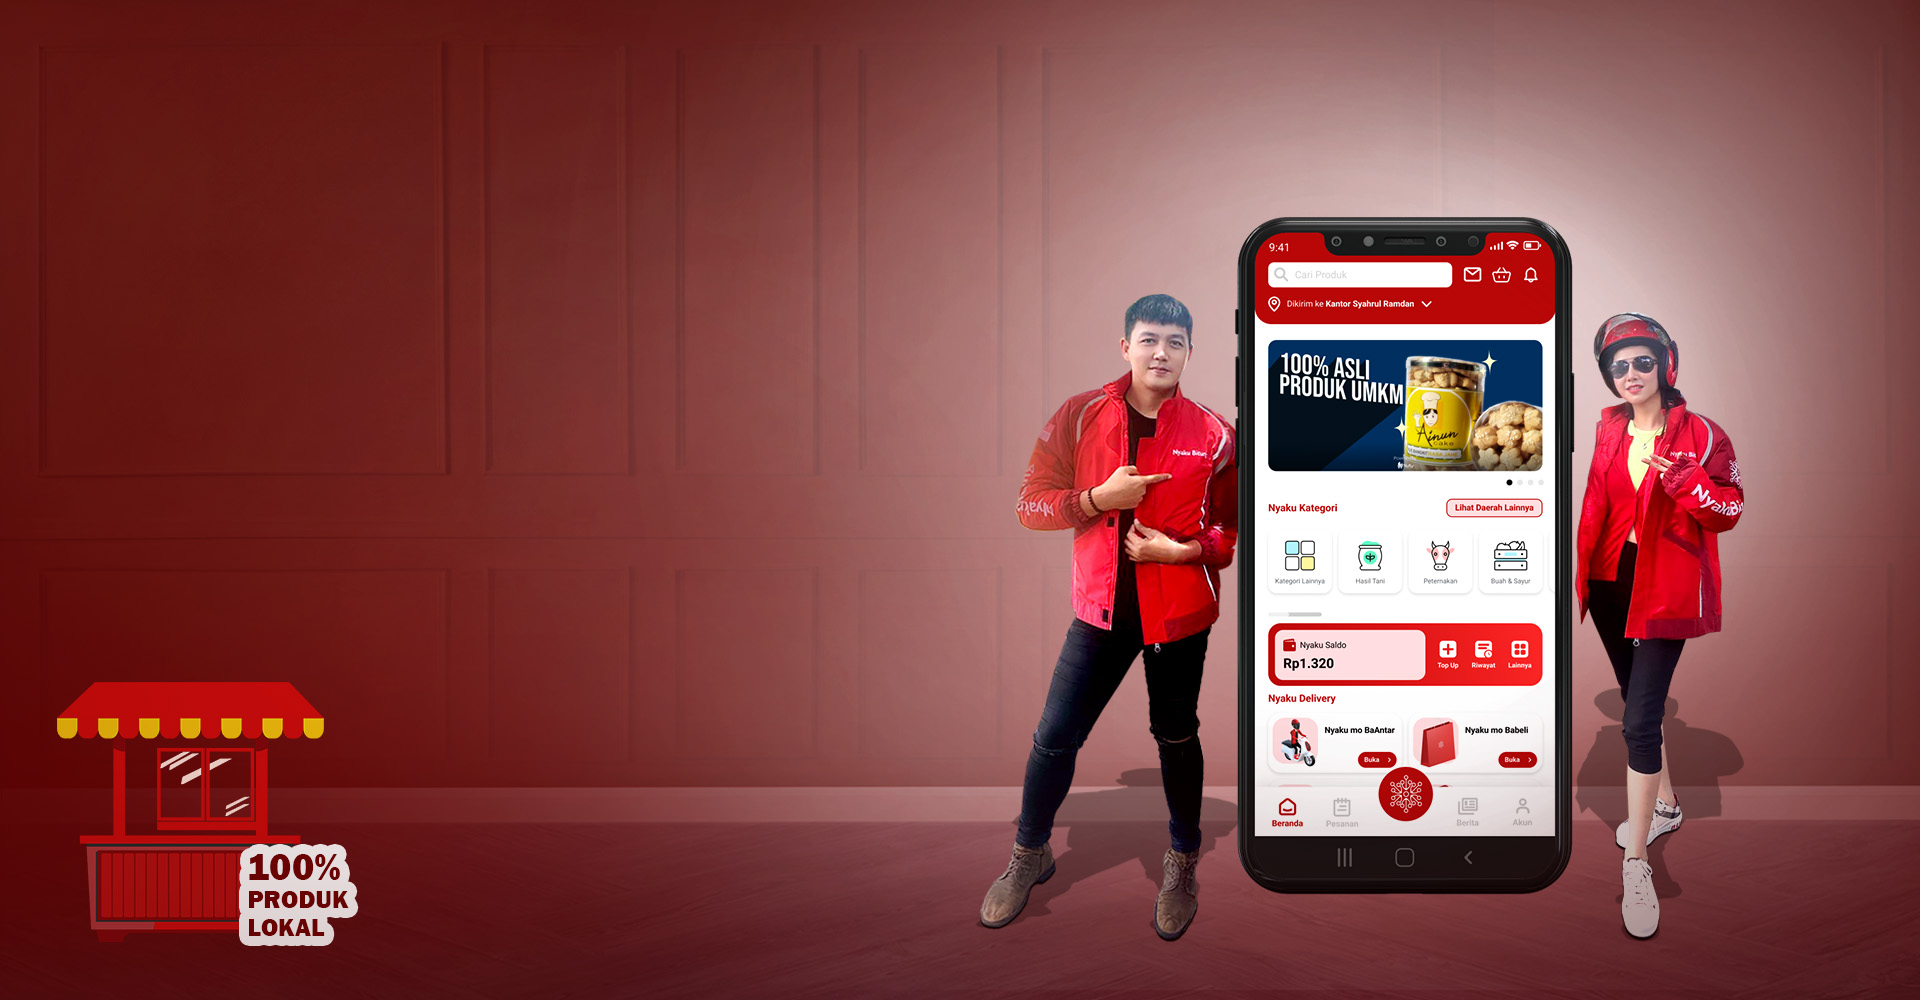
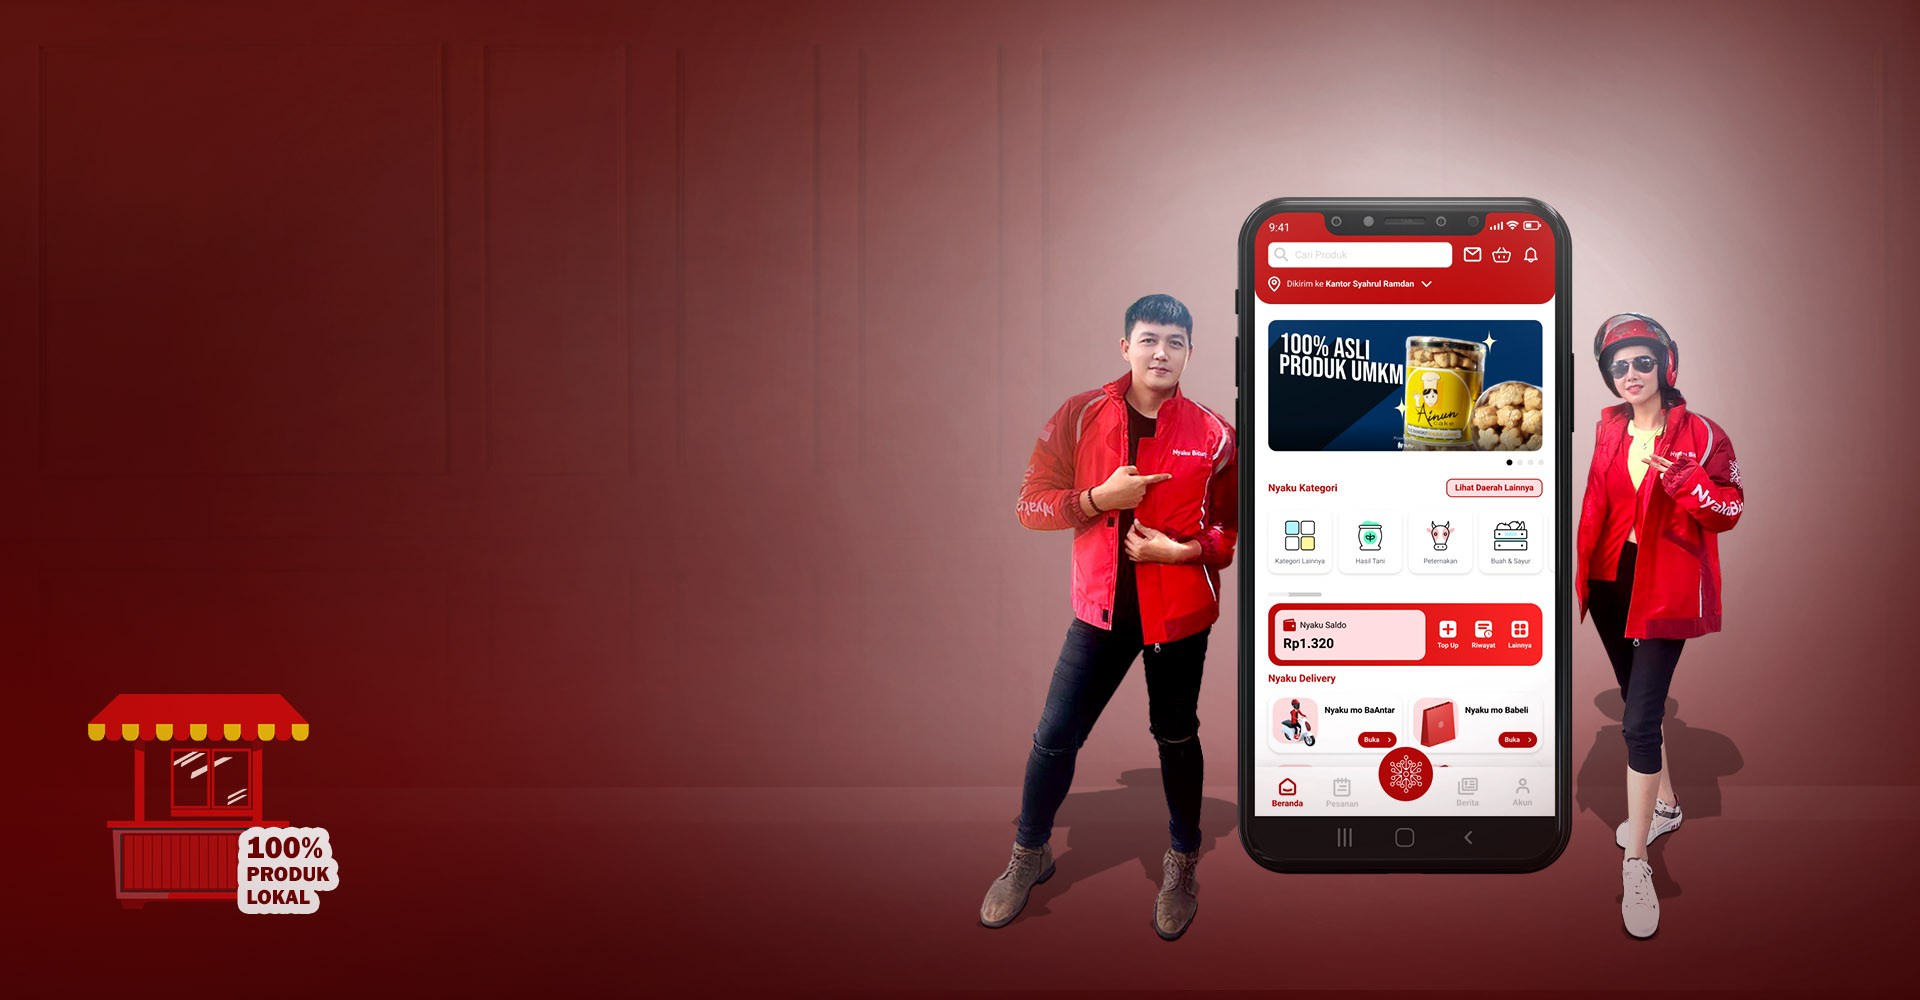
Revisi lagi lagi

diff --git a/index.html b/index.html
@@ -490,7 +490,7 @@ height="0" width="0" style="display:none;visibility:hidden"></iframe></noscript>
               <div class="col-xl-5 col-lg-6">
                 <h6>Tentang</h6>
                 <h2 style="font-family: var(--font-dasar); ; font-size: 40px;">Apa itu <span style="color: var(--warna-dasar);"> Nyaku Bitung</span></h2>
-                <p class="big">Nyaku Bitung adalah Super Apps yang menggabungkan <em>Marketplace</em> dan <em>Delivery Order</em>, mempunyai tujuan menjadi wadah jualan produk kearifan lokal Kota Bitung serta untuk meningkatkan penjualan para pelaku UMKM Kota Bitung.</p>
+                <p class="big">Nyaku Bitung adalah Super Apps yang menggabungkan <em>Marketplace</em> dan <em>Delivery Order</em>, mempunyai tujuan menjadi wadah jualan produk kearifan lokal serta untuk membantu pertumbuhan ekonomi UMKM di daerah Kota Bitung.</p>
               </div>
             </div>
           </div>
@@ -507,6 +507,7 @@ height="0" width="0" style="display:none;visibility:hidden"></iframe></noscript>
         <div><img src="assets/img/banner/Slide_WEB Banner_PPOB.jpg" alt="Nyaku Bitung Banner" class="img-fluid"></div>
         <div><img src="assets/img/banner/Slide_WEB Banner_Reservasi Hotel.jpg" alt="Nyaku Bitung Banner" class="img-fluid"></div>
         <div><img src="assets/img/banner/Slide_WEB Banner_Wisata.jpg" alt="Nyaku Bitung Banner" class="img-fluid"></div>
+        <div><img src="assets/img/banner/Slide_WEB Banner_Selat lembeh.jpg" alt="Nyaku Bitung Banner" class="img-fluid"></div>
       </div>
     </div>
   </div>
@@ -519,7 +520,7 @@ height="0" width="0" style="display:none;visibility:hidden"></iframe></noscript>
               <div class="col-xl-5 col-lg-6">
                 <h6>Kenapa Harus Nyaku Bitung ?</h6>
                 <h2 style="font-family: var(--font-dasar); font-size: 40px;">Portofolio Produk Daerah</h2>
-                <p class="big">Nyaku Bitung merupakan E-Katalog produk kearifan lokal Kota Bitung yang merupakan portofolio produk daerah untuk sektor UMKM, komodistas, pariwisata sehingga memudahkan wisatawan mengenal produk-produk kearifan lokal Kota Bitung.</p>
+                <p class="big">Nyaku Bitung merupakan E-Katalog produk kearifan lokal yang merupakan portofolio produk daerah untuk sektor UMKM, Komoditas,  Pariwisata sehingga memudahkan wisatawan mengenal produk-produk kearifan lokal Kota Bitung.</p>
               </div>
               <div class="col-xl-6 col-lg-6">
                 <div class="text-center text-lg-left"><img src="assets/img/Ilustrasi/home-img.png" alt="Kenapa Harus Nyaku Bitung" width="500" height="406"/>
@@ -872,7 +873,7 @@ height="0" width="0" style="display:none;visibility:hidden"></iframe></noscript>
                         <div class="col-md-4">
                             <div class="box-footer1">
                                 <div class="footer-text">
-                                   Nyaku Bitung adalah Super Apps yang menggabungkan <em>Marketplace</em> dan <em>Delivery Order</em>, mempunyai tujuan menjadi wadah jualan produk kearifan lokal Kota Bitung serta untuk meningkatkan penjualan para pelaku UMKM Kota Bitung.
+                                  Nyaku Bitung adalah Super Apps yang menggabungkan <em>Marketplace</em> dan <em>Delivery Order</em>, mempunyai tujuan menjadi wadah jualan produk kearifan lokal serta untuk membantu pertumbuhan ekonomi UMKM di daerah Kota Bitung.
                                 </div>
                                 <div class="box-sosmed">
                                     <a href="https://www.facebook.com/Nyaku-Bitung-104920565719102" title="Facebook Nyaku" target="_blank"><i class="fab fa-facebook"></i></a>

diff --git a/html/mitra/mitra_driver/driver.html b/html/mitra/mitra_driver/driver.html
@@ -368,8 +368,8 @@ footer {
       </header>
 
       <!-- Hero -->
-        <section class="hero-bg" style="    background-image: url(../../../assets/img/banner/Slide\ Mitra\ Driver.jpg);
-    background-position: center;
+        <section class="hero-bg" style="    background-image: url(../../../assets/img/banner/Slide\ Mitra\ Driver1.jpg);
+    background-position: left;
     background-repeat: no-repeat;
     background-size: cover;
     height: 100vh;
@@ -571,7 +571,7 @@ footer {
                         <div class="col-md-4">
                             <div class="box-footer1">
                                 <div class="footer-text">
-                                   Nyaku Bitung adalah Super Apps yang menggabungkan <em>Marketplace</em> dan <em>Delivery Order</em>, mempunyai tujuan menjadi wadah jualan produk kearifan lokal Kota Bitung serta untuk meningkatkan penjualan para pelaku UMKM Kota Bitung.
+                                  Nyaku Bitung adalah Super Apps yang menggabungkan <em>Marketplace</em> dan <em>Delivery Order</em>, mempunyai tujuan menjadi wadah jualan produk kearifan lokal serta untuk membantu pertumbuhan ekonomi UMKM di daerah Kota Bitung.
                                 </div>
                                   <div class="box-sosmed">
                                     <a href="https://www.facebook.com/Nyaku-Bitung-104920565719102" title="Facebook Nyaku" target="_blank"><i class="fab fa-facebook"></i></a>

diff --git a/html/mitra/mitra_merchant/merchant.html b/html/mitra/mitra_merchant/merchant.html
@@ -349,8 +349,8 @@ footer {
       </header>
 
       <!-- Hero -->
-        <section class="hero-bg" style=" background-image: url(../../../assets/img/banner/Banner\ Mitra\ Merchant.jpg);
-    background-position: center;
+        <section class="hero-bg" style=" background-image: url(../../../assets/img/banner/Slide\ Mitra\ Driver.jpg);
+    background-position: left;
     background-repeat: no-repeat;
     background-size: cover;
     height: 100vh;
@@ -549,7 +549,7 @@ footer {
                         <div class="col-md-4">
                             <div class="box-footer1">
                                 <div class="footer-text">
-                                   Nyaku Bitung adalah Super Apps yang menggabungkan <em>Marketplace</em> dan <em>Delivery Order</em>, mempunyai tujuan menjadi wadah jualan produk kearifan lokal Kota Bitung serta untuk meningkatkan penjualan para pelaku UMKM Kota Bitung.
+                                  Nyaku Bitung adalah Super Apps yang menggabungkan <em>Marketplace</em> dan <em>Delivery Order</em>, mempunyai tujuan menjadi wadah jualan produk kearifan lokal serta untuk membantu pertumbuhan ekonomi UMKM di daerah Kota Bitung.
                                 </div>
                                  <div class="box-sosmed">
                                     <a href="https://www.facebook.com/Nyaku-Bitung-104920565719102" title="Facebook Nyaku" target="_blank"><i class="fab fa-facebook"></i></a>

diff --git a/html/blog/konten/Ekslusif tim nyaku bitung perpanjang waktu di bitung/konten.html b/html/blog/konten/Ekslusif tim nyaku bitung perpanjang waktu di bitung/konten.html
@@ -497,7 +497,7 @@ Maka kita torang jo semua akan bahagia sejahtera dengan menggunbakan aplikasi da
                         <div class="col-md-4">
                             <div class="box-footer1">
                                 <div class="footer-text">
-                                   Nyaku Bitung adalah Super Apps yang menggabungkan <em>Marketplace</em> dan <em>Delivery Order</em>, mempunyai tujuan menjadi wadah jualan produk kearifan lokal Kota Bitung serta untuk meningkatkan penjualan para pelaku UMKM Kota Bitung.
+                                  Nyaku Bitung adalah Super Apps yang menggabungkan <em>Marketplace</em> dan <em>Delivery Order</em>, mempunyai tujuan menjadi wadah jualan produk kearifan lokal serta untuk membantu pertumbuhan ekonomi UMKM di daerah Kota Bitung.
                                 </div>
                               <div class="box-sosmed">
                                     <a href="https://www.facebook.com/Nyaku-Bitung-104920565719102" title="Facebook Nyaku" target="_blank"><i class="fab fa-facebook"></i></a>

diff --git a/html/mitra/mitra_driver/syarat.html b/html/mitra/mitra_driver/syarat.html
@@ -480,7 +480,7 @@ footer {
                         <div class="col-md-4">
                             <div class="box-footer1">
                                 <div class="footer-text">
-                                   Nyaku Bitung adalah Super Apps yang menggabungkan <em>Marketplace</em> dan <em>Delivery Order</em>, mempunyai tujuan menjadi wadah jualan produk kearifan lokal Kota Bitung serta untuk meningkatkan penjualan para pelaku UMKM Kota Bitung.
+                                  Nyaku Bitung adalah Super Apps yang menggabungkan <em>Marketplace</em> dan <em>Delivery Order</em>, mempunyai tujuan menjadi wadah jualan produk kearifan lokal serta untuk membantu pertumbuhan ekonomi UMKM di daerah Kota Bitung.
                                 </div>
                                  <div class="box-sosmed">
                                     <a href="https://www.facebook.com/Nyaku-Bitung-104920565719102" title="Facebook Nyaku" target="_blank"><i class="fab fa-facebook"></i></a>

diff --git a/html/blog/konten_blog.html b/html/blog/konten_blog.html
@@ -1015,7 +1015,7 @@ footer {
                         <div class="col-md-4">
                             <div class="box-footer1">
                                 <div class="footer-text">
-                                   Nyaku Bitung adalah Super Apps yang menggabungkan <em>Marketplace</em> dan <em>Delivery Order</em>, mempunyai tujuan menjadi wadah jualan produk kearifan lokal Kota Bitung serta untuk meningkatkan penjualan para pelaku UMKM Kota Bitung.
+                                  Nyaku Bitung adalah Super Apps yang menggabungkan <em>Marketplace</em> dan <em>Delivery Order</em>, mempunyai tujuan menjadi wadah jualan produk kearifan lokal serta untuk membantu pertumbuhan ekonomi UMKM di daerah Kota Bitung.
                                 </div>
                               <div class="box-sosmed">
                                     <a href="https://www.facebook.com/Nyaku-Bitung-104920565719102" title="Facebook Nyaku" target="_blank"><i class="fab fa-facebook"></i></a>

diff --git a/html/mitra/mitra_merchant/syarat.html b/html/mitra/mitra_merchant/syarat.html
@@ -379,7 +379,7 @@ footer {
                         <div class="col-md-4">
                             <div class="box-footer1">
                                 <div class="footer-text">
-                                   Nyaku Bitung adalah Super Apps yang menggabungkan <em>Marketplace</em> dan <em>Delivery Order</em>, mempunyai tujuan menjadi wadah jualan produk kearifan lokal Kota Bitung serta untuk meningkatkan penjualan para pelaku UMKM Kota Bitung.
+                                  Nyaku Bitung adalah Super Apps yang menggabungkan <em>Marketplace</em> dan <em>Delivery Order</em>, mempunyai tujuan menjadi wadah jualan produk kearifan lokal serta untuk membantu pertumbuhan ekonomi UMKM di daerah Kota Bitung.
                                 </div>
                                 <div class="box-sosmed">
                                     <a href="https://www.facebook.com/Nyaku-Bitung-104920565719102" title="Facebook Nyaku" target="_blank"><i class="fab fa-facebook"></i></a>

diff --git a/html/kontak/kontak.html b/html/kontak/kontak.html
@@ -484,7 +484,7 @@ footer {
                         <div class="col-md-4">
                             <div class="box-footer1">
                                 <div class="footer-text">
-                                  Nyaku Bitung adalah Super Apps yang menggabungkan <em>Marketplace</em> dan <em>Delivery Order</em>, mempunyai tujuan menjadi wadah jualan produk kearifan lokal Kota Bitung serta untuk meningkatkan penjualan para pelaku UMKM Kota Bitung.
+                                 Nyaku Bitung adalah Super Apps yang menggabungkan <em>Marketplace</em> dan <em>Delivery Order</em>, mempunyai tujuan menjadi wadah jualan produk kearifan lokal serta untuk membantu pertumbuhan ekonomi UMKM di daerah Kota Bitung.
                                 </div>
                                  <div class="box-sosmed">
                                     <a href="https://www.facebook.com/Nyaku-Bitung-104920565719102" title="Facebook Nyaku" target="_blank"><i class="fab fa-facebook"></i></a>

diff --git a/html/layanan/layanan.html b/html/layanan/layanan.html
@@ -620,7 +620,7 @@ footer {
                         <div class="col-md-4">
                             <div class="box-footer1">
                                 <div class="footer-text">
-                                  Nyaku Bitung adalah Super Apps yang menggabungkan <em>Marketplace</em> dan <em>Delivery Order</em>, mempunyai tujuan menjadi wadah jualan produk kearifan lokal Kota Bitung serta untuk meningkatkan penjualan para pelaku UMKM Kota Bitung.
+                                 Nyaku Bitung adalah Super Apps yang menggabungkan <em>Marketplace</em> dan <em>Delivery Order</em>, mempunyai tujuan menjadi wadah jualan produk kearifan lokal serta untuk membantu pertumbuhan ekonomi UMKM di daerah Kota Bitung.
                                 </div>
                                  <div class="box-sosmed">
                                     <a href="https://www.facebook.com/Nyaku-Bitung-104920565719102" title="Facebook Nyaku" target="_blank"><i class="fab fa-facebook"></i></a>

diff --git a/html/blog/konten/Aplikasi Ojek Online Nyaku Bitung Dorong UMKM dan Lapangan Kerja di Kota Bitung/konten.html b/html/blog/konten/Aplikasi Ojek Online Nyaku Bitung Dorong UMKM dan Lapangan Kerja di Kota Bitung/konten.html
@@ -489,7 +489,7 @@ footer {
                         <div class="col-md-4">
                             <div class="box-footer1">
                                 <div class="footer-text">
-                                   Nyaku Bitung adalah Super Apps yang menggabungkan <em>Marketplace</em> dan <em>Delivery Order</em>, mempunyai tujuan menjadi wadah jualan produk kearifan lokal Kota Bitung serta untuk meningkatkan penjualan para pelaku UMKM Kota Bitung.
+                                  Nyaku Bitung adalah Super Apps yang menggabungkan <em>Marketplace</em> dan <em>Delivery Order</em>, mempunyai tujuan menjadi wadah jualan produk kearifan lokal serta untuk membantu pertumbuhan ekonomi UMKM di daerah Kota Bitung.
                                 </div>
                               <div class="box-sosmed">
                                     <a href="https://www.facebook.com/Nyaku-Bitung-104920565719102" title="Facebook Nyaku" target="_blank"><i class="fab fa-facebook"></i></a>

diff --git a/html/blog/konten/Cara Daftar Menjadi Mitra Nyaku Bitung Lebih Cepat/konten.html b/html/blog/konten/Cara Daftar Menjadi Mitra Nyaku Bitung Lebih Cepat/konten.html
@@ -515,7 +515,7 @@ footer {
                         <div class="col-md-4">
                             <div class="box-footer1">
                                 <div class="footer-text">
-                                   Nyaku Bitung adalah Super Apps yang menggabungkan <em>Marketplace</em> dan <em>Delivery Order</em>, mempunyai tujuan menjadi wadah jualan produk kearifan lokal Kota Bitung serta untuk meningkatkan penjualan para pelaku UMKM Kota Bitung.
+                                  Nyaku Bitung adalah Super Apps yang menggabungkan <em>Marketplace</em> dan <em>Delivery Order</em>, mempunyai tujuan menjadi wadah jualan produk kearifan lokal serta untuk membantu pertumbuhan ekonomi UMKM di daerah Kota Bitung.
                                 </div>
                               <div class="box-sosmed">
                                     <a href="https://www.facebook.com/Nyaku-Bitung-104920565719102" title="Facebook Nyaku" target="_blank"><i class="fab fa-facebook"></i></a>

diff --git a/html/blog/konten/Festival Pesona Selat Lembeh 2022/konten.html b/html/blog/konten/Festival Pesona Selat Lembeh 2022/konten.html
@@ -490,7 +490,7 @@ footer {
                         <div class="col-md-4">
                             <div class="box-footer1">
                                 <div class="footer-text">
-                                   Nyaku Bitung adalah Super Apps yang menggabungkan <em>Marketplace</em> dan <em>Delivery Order</em>, mempunyai tujuan menjadi wadah jualan produk kearifan lokal Kota Bitung serta untuk meningkatkan penjualan para pelaku UMKM Kota Bitung.
+                                  Nyaku Bitung adalah Super Apps yang menggabungkan <em>Marketplace</em> dan <em>Delivery Order</em>, mempunyai tujuan menjadi wadah jualan produk kearifan lokal serta untuk membantu pertumbuhan ekonomi UMKM di daerah Kota Bitung.
                                 </div>
                               <div class="box-sosmed">
                                     <a href="https://www.facebook.com/Nyaku-Bitung-104920565719102" title="Facebook Nyaku" target="_blank"><i class="fab fa-facebook"></i></a>
